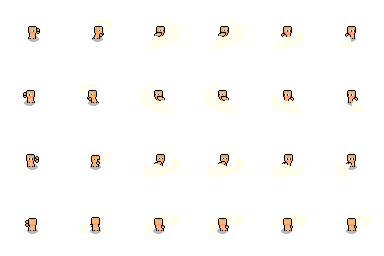
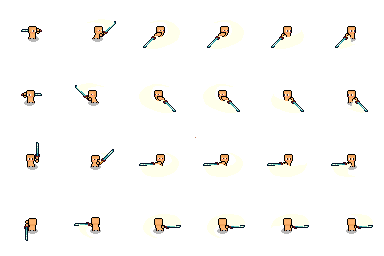
1.92.0+1; feat: implement combo attack system for player animations

diff --git a/lib/gameplay/characters/player/demo/demo_player_def.dart b/lib/gameplay/characters/player/demo/demo_player_def.dart
@@ -1,3 +1,5 @@
+// ignore_for_file: unused_field
+
 import 'package:bonfire/bonfire.dart';
 import 'package:darkness_dungeon/gameplay/characters/character_constants.dart';
 import 'package:darkness_dungeon/gameplay/core/modules/game/lightning_constants.dart';
@@ -359,7 +361,7 @@ final class DemoPlayerDef {
         loadUp: _loadAnimationChoppingUp,
         loadDown: _loadAnimationChoppingDown,
       );
-  static Future<SpriteAnimation> _loadAnimationAttackRight =
+  static Future<SpriteAnimation> _loadAnimationAttack1Right =
       SpriteAnimationConfigHelper.loadAnimationFromTextureAtlasSmallBurg(
         assetPath: attac1kAssetPath,
         textureSize: textureSize,
@@ -368,7 +370,7 @@ final class DemoPlayerDef {
         framePositionY: _frameRightY,
       );
 
-  static Future<SpriteAnimation> _loadAnimationAttackLeft =
+  static Future<SpriteAnimation> _loadAnimationAttack1Left =
       SpriteAnimationConfigHelper.loadAnimationFromTextureAtlasSmallBurg(
         assetPath: attac1kAssetPath,
         textureSize: textureSize,
@@ -377,7 +379,7 @@ final class DemoPlayerDef {
         framePositionY: _frameLeftY,
       );
 
-  static Future<SpriteAnimation> _loadAnimationAttackUp =
+  static Future<SpriteAnimation> _loadAnimationAttack1Up =
       SpriteAnimationConfigHelper.loadAnimationFromTextureAtlasSmallBurg(
         assetPath: attac1kAssetPath,
         textureSize: textureSize,
@@ -386,7 +388,7 @@ final class DemoPlayerDef {
         framePositionY: _frameUpY,
       );
 
-  static Future<SpriteAnimation> _loadAnimationAttackDown =
+  static Future<SpriteAnimation> _loadAnimationAttack1Down =
       SpriteAnimationConfigHelper.loadAnimationFromTextureAtlasSmallBurg(
         assetPath: attac1kAssetPath,
         textureSize: textureSize,
@@ -395,12 +397,100 @@ final class DemoPlayerDef {
         framePositionY: _frameDownY,
       );
 
-  static final _animationAttackDirectionalFactory =
+  static final _animationAttack1DirectionalFactory =
       DDAnimationDirectionalFactory(
-        loadRight: _loadAnimationAttackRight,
-        loadLeft: _loadAnimationAttackLeft,
-        loadUp: _loadAnimationAttackUp,
-        loadDown: _loadAnimationAttackDown,
+        loadRight: _loadAnimationAttack1Right,
+        loadLeft: _loadAnimationAttack1Left,
+        loadUp: _loadAnimationAttack1Up,
+        loadDown: _loadAnimationAttack1Down,
+      );
+
+  static Future<SpriteAnimation> _loadAnimationAttack2Right =
+      SpriteAnimationConfigHelper.loadAnimationFromTextureAtlasSmallBurg(
+        assetPath: attack2AssetPath,
+        textureSize: textureSize,
+        totalFrames: _x6,
+        framePositionX: 0,
+        framePositionY: _frameRightY,
+      );
+
+  static Future<SpriteAnimation> _loadAnimationAttack2Left =
+      SpriteAnimationConfigHelper.loadAnimationFromTextureAtlasSmallBurg(
+        assetPath: attack2AssetPath,
+        textureSize: textureSize,
+        totalFrames: _x6,
+        framePositionX: 0,
+        framePositionY: _frameLeftY,
+      );
+
+  static Future<SpriteAnimation> _loadAnimationAttack2Up =
+      SpriteAnimationConfigHelper.loadAnimationFromTextureAtlasSmallBurg(
+        assetPath: attack2AssetPath,
+        textureSize: textureSize,
+        totalFrames: _x6,
+        framePositionX: 0,
+        framePositionY: _frameUpY,
+      );
+
+  static Future<SpriteAnimation> _loadAnimationAttack2Down =
+      SpriteAnimationConfigHelper.loadAnimationFromTextureAtlasSmallBurg(
+        assetPath: attack2AssetPath,
+        textureSize: textureSize,
+        totalFrames: _x6,
+        framePositionX: 0,
+        framePositionY: _frameDownY,
+      );
+
+  static final _animationAttack2DirectionalFactory =
+      DDAnimationDirectionalFactory(
+        loadRight: _loadAnimationAttack2Right,
+        loadLeft: _loadAnimationAttack2Left,
+        loadUp: _loadAnimationAttack2Up,
+        loadDown: _loadAnimationAttack2Down,
+      );
+
+  static Future<SpriteAnimation> _loadAnimationAttack3Right =
+      SpriteAnimationConfigHelper.loadAnimationFromTextureAtlasSmallBurg(
+        assetPath: attack3AssetPath,
+        textureSize: textureSize,
+        totalFrames: _x6,
+        framePositionX: 0,
+        framePositionY: _frameRightY,
+      );
+
+  static Future<SpriteAnimation> _loadAnimationAttack3Left =
+      SpriteAnimationConfigHelper.loadAnimationFromTextureAtlasSmallBurg(
+        assetPath: attack3AssetPath,
+        textureSize: textureSize,
+        totalFrames: _x6,
+        framePositionX: 0,
+        framePositionY: _frameLeftY,
+      );
+
+  static Future<SpriteAnimation> _loadAnimationAttack3Up =
+      SpriteAnimationConfigHelper.loadAnimationFromTextureAtlasSmallBurg(
+        assetPath: attack3AssetPath,
+        textureSize: textureSize,
+        totalFrames: _x6,
+        framePositionX: 0,
+        framePositionY: _frameUpY,
+      );
+
+  static Future<SpriteAnimation> _loadAnimationAttack3Down =
+      SpriteAnimationConfigHelper.loadAnimationFromTextureAtlasSmallBurg(
+        assetPath: attack3AssetPath,
+        textureSize: textureSize,
+        totalFrames: _x6,
+        framePositionX: 0,
+        framePositionY: _frameDownY,
+      );
+
+  static final _animationAttack3DirectionalFactory =
+      DDAnimationDirectionalFactory(
+        loadRight: _loadAnimationAttack3Right,
+        loadLeft: _loadAnimationAttack3Left,
+        loadUp: _loadAnimationAttack3Up,
+        loadDown: _loadAnimationAttack3Down,
       );
 
   static final Future<SpriteAnimation> _loadAnimationDigRight =
@@ -565,7 +655,12 @@ final class DemoPlayerDef {
     getDeathMarker: (position) => _createDeathMarker(position),
     animationWalkDirectional: _animationWalkDirectional,
     animationRunDirectional: _animationRunDirectional,
-    animationAttackDirectionalFactory: _animationAttackDirectionalFactory,
+    animationAttackDirectionalFactory: _animationAttack1DirectionalFactory,
+    comboAttackAnimationFactories: [
+      _animationAttack1DirectionalFactory,
+      _animationAttack2DirectionalFactory,
+      _animationAttack3DirectionalFactory,
+    ],
     animationDigFactory: _animationDigDirectionalFactory,
     animationWateringCanFactory: _animationWateringDirectionalFactory,
     animationPlaceSeedFactory: _animationPlaceSeedDirectionalFactory,

diff --git a/lib/shared/framework/player/dd_farm_player/dd_consumable_player/dd_defense_player/dd_combat_player/dd_combat_player_view.dart b/lib/shared/framework/player/dd_farm_player/dd_consumable_player/dd_defense_player/dd_combat_player/dd_combat_player_view.dart
@@ -1,3 +1,5 @@
+import 'dart:async' as async;
+
 import 'package:bonfire/bonfire.dart';
 import 'package:darkness_dungeon/gameplay/core/modules/combat/attacks/character_fireball_attack_def.dart';
 import 'package:darkness_dungeon/gameplay/core/modules/combat/attacks/character_fx_particles_animations_def.dart';
@@ -30,7 +32,12 @@ abstract class DDCombatPlayerView<
     required super.model,
   }) : super(config: config);
 
-  late final DDAnimationDirectional animationAttackDirectional;
+  late final List<DDAnimationDirectional> _comboAttackAnimations;
+  int _comboStep = 0;
+  bool _isAttackPlaying = false;
+  bool _comboQueued = false;
+  async.Timer? _comboResetTimer;
+  static const Duration _kComboResetDelay = Duration(milliseconds: 450);
 
   late final SynchronizedAttackController meleeAttackController;
   late final SynchronizedAttackController rangedAttackController;
@@ -40,14 +47,23 @@ abstract class DDCombatPlayerView<
     await super.onLoad();
     _initializeCombatSystems();
 
-    animationAttackDirectional =
-        await DDCharacterActionSpriteAnimationHelper.loadAnimationDirectionalFromFactory(
-          config.animationAttackDirectionalFactory,
-        );
+    final factories = config.comboAttackAnimationFactories.isNotEmpty
+        ? config.comboAttackAnimationFactories
+        : [config.animationAttackDirectionalFactory];
+
+    final animations = await Future.wait(
+      factories.map(
+        DDCharacterActionSpriteAnimationHelper
+            .loadAnimationDirectionalFromFactory,
+      ),
+    );
+
+    _comboAttackAnimations = animations;
   }
 
   @override
   void onRemove() {
+    _comboResetTimer?.cancel();
     meleeAttackController.dispose();
     rangedAttackController.dispose();
     super.onRemove();
@@ -99,29 +115,81 @@ abstract class DDCombatPlayerView<
   });
 
   bool _onExecutePrimaryAttack(double damage) {
+    if (_isAttackPlaying) {
+      _comboQueued = true;
+      return false; // evita cobrar stamina em cliques extras durante a animação
+    }
+
+    return _startComboAttack(damage);
+  }
+
+  bool _startComboAttack(double damage, {bool consumeStamina = false}) {
+    if (consumeStamina) {
+      final cost = controller.model.config.primaryAttackStaminaCost;
+      if (controller.model.stamina < cost) {
+        _comboQueued = false;
+        _comboStep = 0;
+        return false;
+      }
+      controller.model.consumeStamina(cost);
+    }
+
+    final DDAnimationDirectional comboAnimation =
+        _comboAttackAnimations[_comboStep];
+
     final AttackExecutionInfo? executionInfo = meleeAttackController.execute(
       AttackType.melee,
       () {
         DDCharacterActionSpriteAnimationHelper.playOnceExecutionEquipment(
-          animationRight: animationAttackDirectional.right,
-          animationLeft: animationAttackDirectional.left,
-          animationUp: animationAttackDirectional.up,
-          animationDown: animationAttackDirectional.down,
-          animationRightUp: animationAttackDirectional.rightUp,
-          animationRightDown: animationAttackDirectional.rightDown,
-          animationLeftUp: animationAttackDirectional.leftUp,
-          animationLeftDown: animationAttackDirectional.leftDown,
+          animationRight: comboAnimation.right,
+          animationLeft: comboAnimation.left,
+          animationUp: comboAnimation.up,
+          animationDown: comboAnimation.down,
+          animationRightUp: comboAnimation.rightUp,
+          animationRightDown: comboAnimation.rightDown,
+          animationLeftUp: comboAnimation.leftUp,
+          animationLeftDown: comboAnimation.leftDown,
           currentAnimation: animation,
           target: this,
           executionStartFrame: 1,
-          onActionStart: lockAction,
-          onActionEnd: unlockAction,
+          onActionStart: () {
+            _isAttackPlaying = true;
+            _comboResetTimer?.cancel();
+            lockAction();
+          },
+          onActionEnd: () => _handleAttackEnd(damage),
           onExecutionFrames: () => _executePrimaryAttack(damage: damage),
         );
       },
     );
 
-    return executionInfo != null;
+    if (executionInfo == null) {
+      _isAttackPlaying = false;
+      _comboQueued = false;
+      return false;
+    }
+
+    _comboStep = (_comboStep + 1) % _comboAttackAnimations.length;
+    return true;
+  }
+
+  void _handleAttackEnd(double damage) {
+    unlockAction();
+    _isAttackPlaying = false;
+
+    if (_comboQueued) {
+      _comboQueued = false;
+      if (!meleeAttackController.canPerformAttack) {
+        meleeAttackController.forceReadyForCombo();
+      }
+      _startComboAttack(damage, consumeStamina: true);
+      return;
+    }
+
+    _comboResetTimer?.cancel();
+    _comboResetTimer = async.Timer(_kComboResetDelay, () {
+      _comboStep = 0;
+    });
   }
 
   bool _onExecuteRangedAttack(double damage) {

diff --git a/lib/shared/framework/player/dd_farm_player/dd_consumable_player/dd_defense_player/dd_combat_player/dd_combat_player_config.dart b/lib/shared/framework/player/dd_farm_player/dd_consumable_player/dd_defense_player/dd_combat_player/dd_combat_player_config.dart
@@ -3,6 +3,7 @@ import 'package:darkness_dungeon/shared/framework/utils/dd_animation_directional
 
 class DDCombatPlayerViewConfig extends DDMobilePlayerViewConfig {
   final DDAnimationDirectionalFactory animationAttackDirectionalFactory;
+  final List<DDAnimationDirectionalFactory> comboAttackAnimationFactories;
 
   const DDCombatPlayerViewConfig({
     required super.size,
@@ -14,6 +15,7 @@ class DDCombatPlayerViewConfig extends DDMobilePlayerViewConfig {
     required super.animationWalkDirectional,
     required super.animationRunDirectional,
     required this.animationAttackDirectionalFactory,
+    this.comboAttackAnimationFactories = const [],
   });
 }
 

diff --git a/lib/shared/framework/player/dd_farm_player/dd_farm_player_config.dart b/lib/shared/framework/player/dd_farm_player/dd_farm_player_config.dart
@@ -17,6 +17,7 @@ class DDFarmPlayerViewConfig extends DDCombatPlayerViewConfig {
     required super.animationWalkDirectional,
     required super.animationRunDirectional,
     required super.animationAttackDirectionalFactory,
+    super.comboAttackAnimationFactories,
     required this.animationDigFactory,
     required this.animationWateringCanFactory,
     required this.animationPlaceSeedFactory,

diff --git a/lib/gameplay/core/modules/combat/synchronized_attack/synchronized_attack_controller.dart b/lib/gameplay/core/modules/combat/synchronized_attack/synchronized_attack_controller.dart
@@ -174,6 +174,13 @@ class SynchronizedAttackController {
     return 1000.0 / cooldown;
   }
 
+  void forceReadyForCombo() {
+    _cooldownTimer?.cancel();
+    _cooldownTimer = null;
+    _model.canAttack = true;
+    _model.startCooldown(Duration.zero);
+  }
+
   Duration getCalculatedCooldown(AttackType type) =>
       _calculateDurations(type).cooldown;
 
